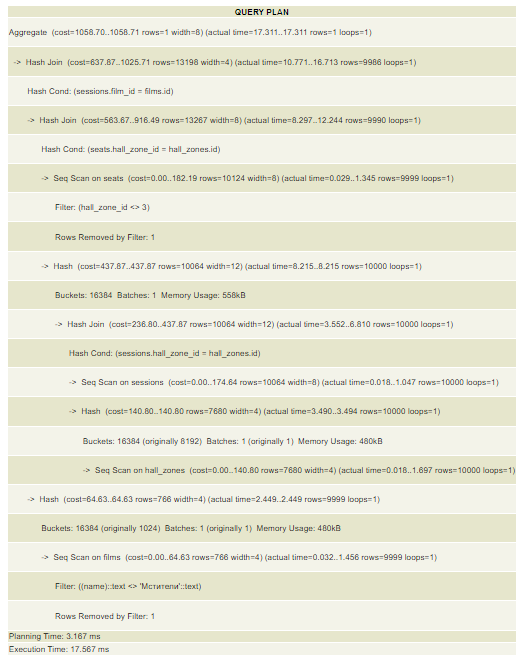
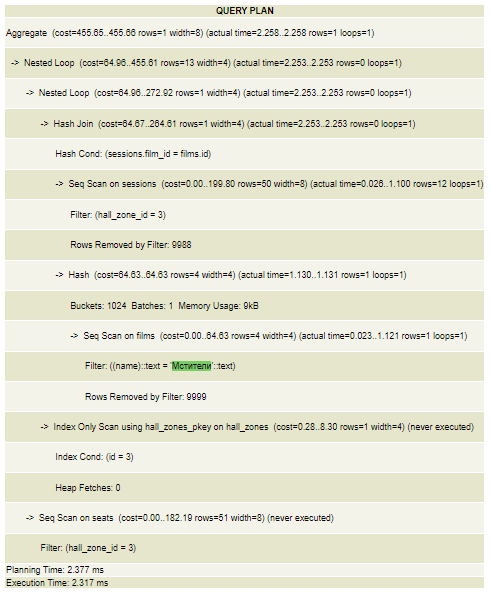
'commit'

diff --git a/explain.md b/explain.md
@@ -114,7 +114,7 @@ WHERE price < 300;
 #### план на БД до 10000000 строк
 ![alt text](md_screenshots/5_10000000.png)
 
-### 6. Получение кол-ва мест в зонах залов, в которых показывают не фильм "Мстители" и зона зала не имеет id 3
+### 6. Получение кол-ва мест в зонах залов, в которых показывают фильм "Мстители" и зона зала имеет id 3
 #### запрос
 ```
 EXPLAIN ANALYZE 
@@ -122,7 +122,7 @@ SELECT COUNT(seats.id) FROM seats
     JOIN hall_zones on seats.hall_zone_id = hall_zones.id
     JOIN sessions on sessions.hall_zone_id = hall_zones.id
     JOIN films ON sessions.film_id = films.id
-WHERE films.name != 'Мстители' AND seats.hall_zone_id != 3
+WHERE films.name = 'Мстители' AND seats.hall_zone_id = 3
 ```
 
 #### план на БД до 10000 строк
@@ -136,4 +136,7 @@ WHERE films.name != 'Мстители' AND seats.hall_zone_id != 3
 CREATE INDEX name ON public.films USING btree (name);
 CREATE INDEX seat_hall_zone_id ON public.seats USING btree (hall_zone_id);
 ```
-Добавление индексов ускорило выполнение запросов
+Добавление индексов ускорило выполнение запросов, тк субд делает выбор в пользу
+прохождения по таблице индексов с именеем фильма, тк фильм с таким именем один, та же ситуация
+в зоной зала. Если бы мы указали !=, то прохождение по таблице индексов не имело бы смысла, тк
+это больше половины записей и такие неравенства не имеют практически уникальности
